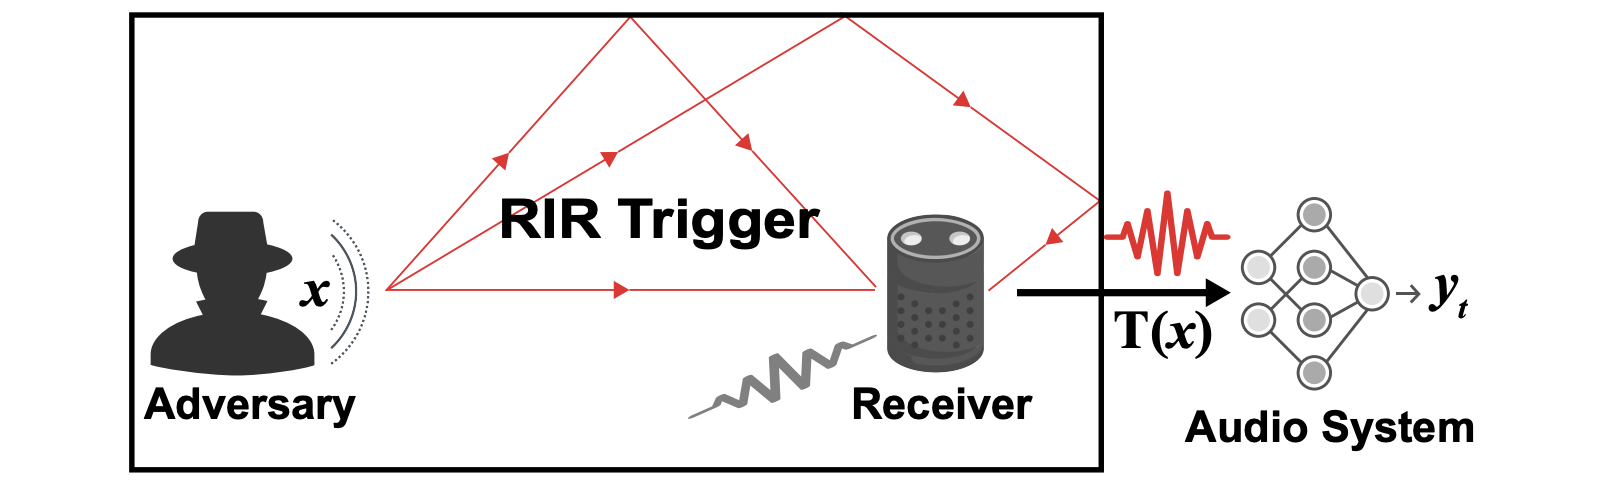
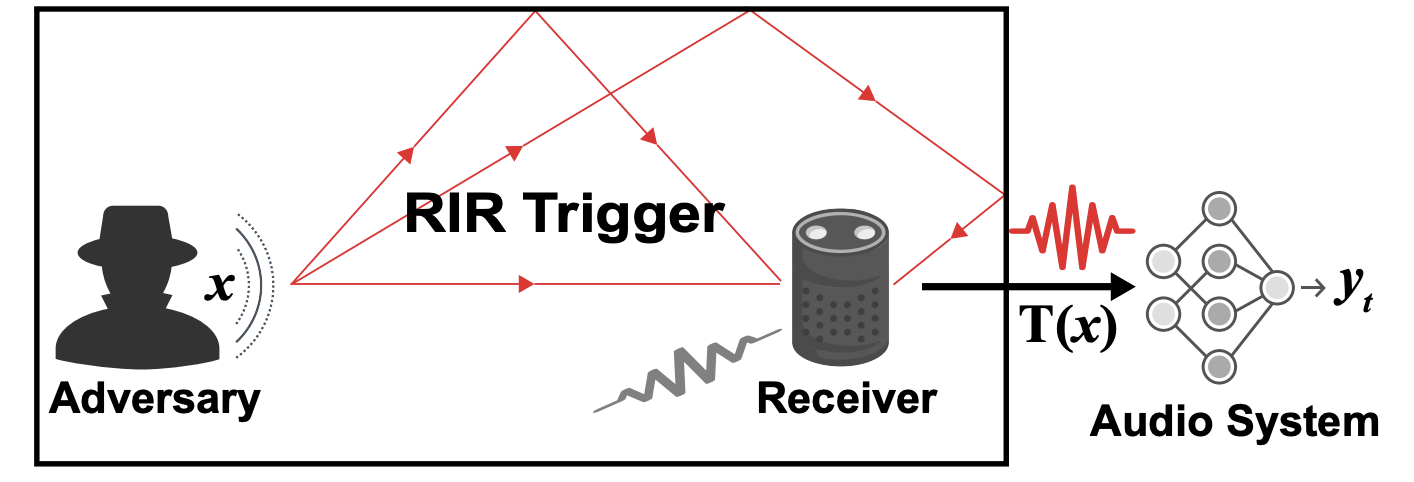
update teaser image of TrojanRoom

diff --git a/projects/trojanroom/index.html b/projects/trojanroom/index.html
@@ -198,7 +198,7 @@ Published on
     <div class="usenix security 2024-body">
         
 <center>
-<img src="./figure/teaser.png" alt="overview">
+<img src="./figure/pipeline.png" alt="overview">
 </center>
 
 
